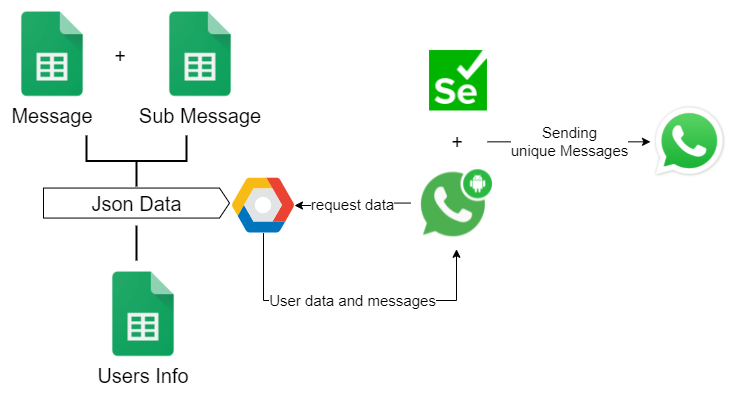
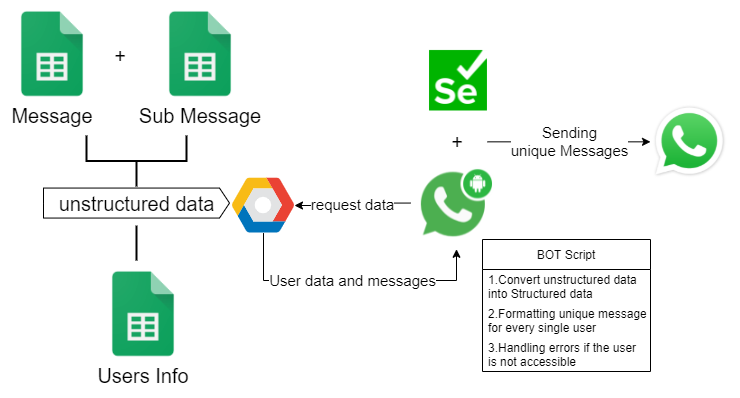
updated_readme

diff --git a/message.py b/message.py
@@ -73,7 +73,7 @@ def getready():
         sys.exit()
 
 getready()
-for usr in users[:]: #send to only  top 2 users 
+for usr in users[:]:
 
     data={
         'usr':usr['NAME'],

diff --git a/README.md b/README.md
@@ -5,9 +5,8 @@
 
 * Understanding the client requirement and developing solution with no future cost this project helped a small company to send mass number of messages to users with the user concern.
 
-* Using selenium and gcp api, data from gsheet and gdocs to access data from account and format a unique message according to user needs.
+* Using selenium and gcp api we can fetch data and format large number of user specific messages and forward them at a given point of time
 
-* By this application a single user can forward a unique formatted message to n number of users.
 
 ## System Design of the project
 ![System Design](./image/systemDesign.png)
